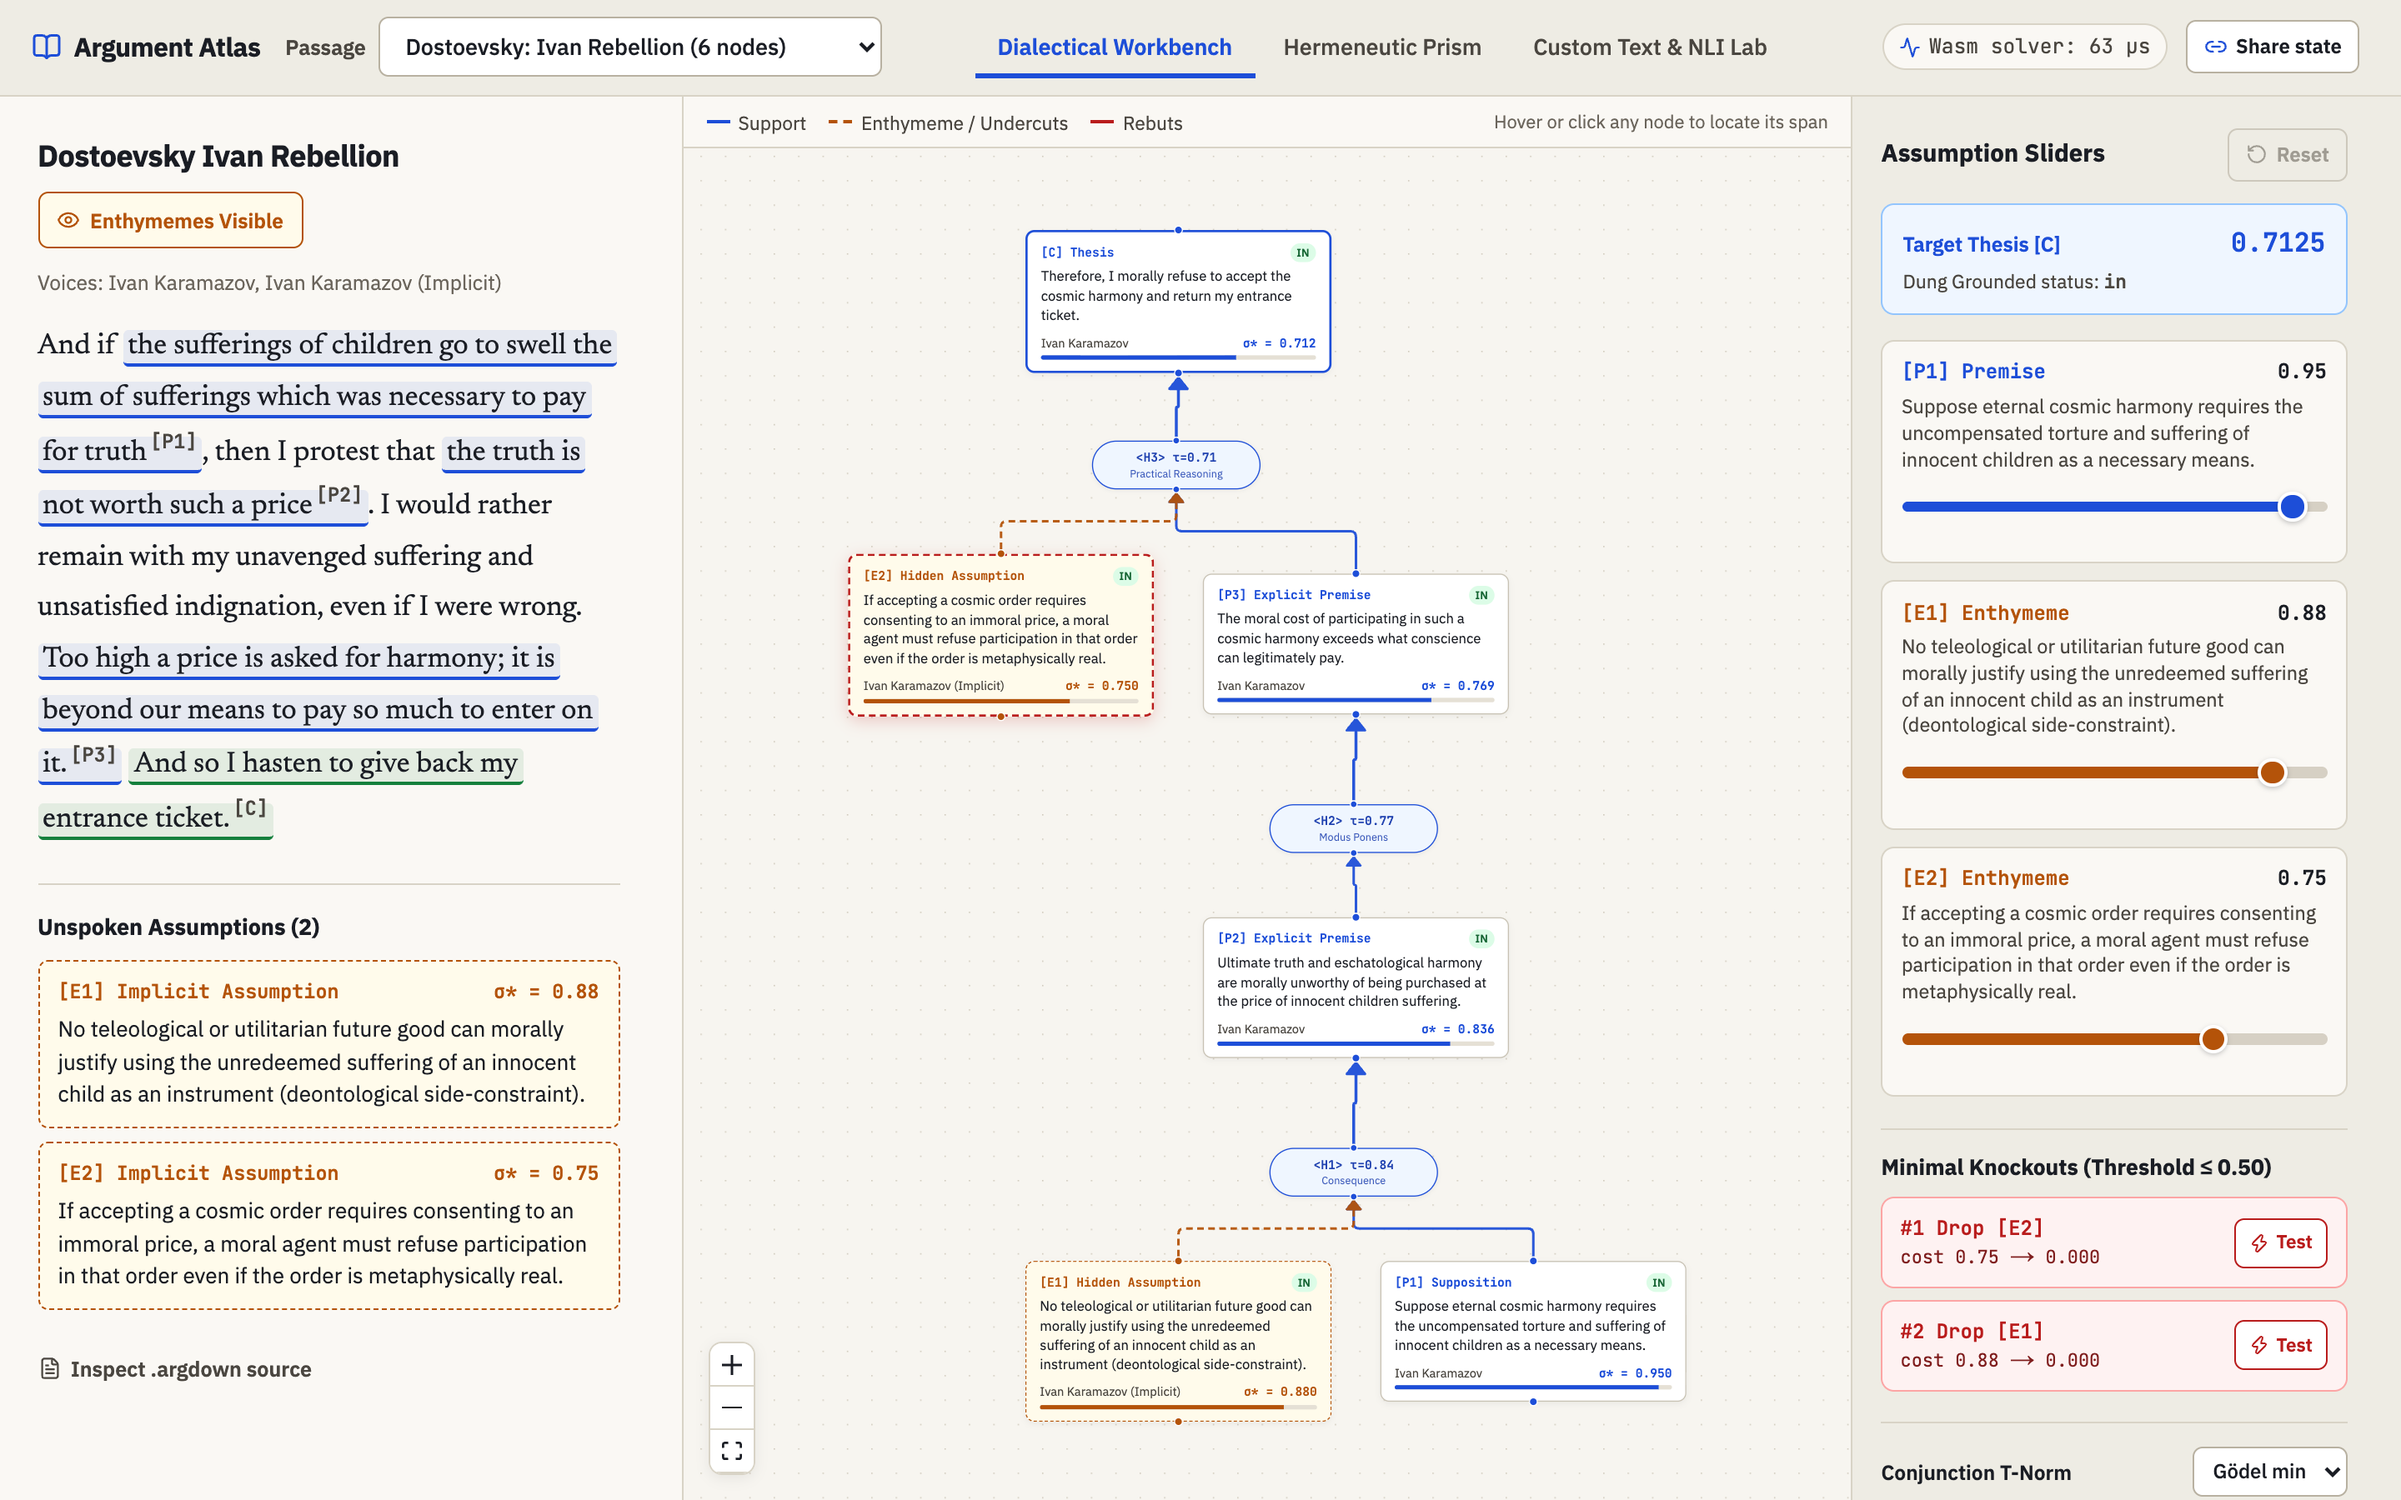
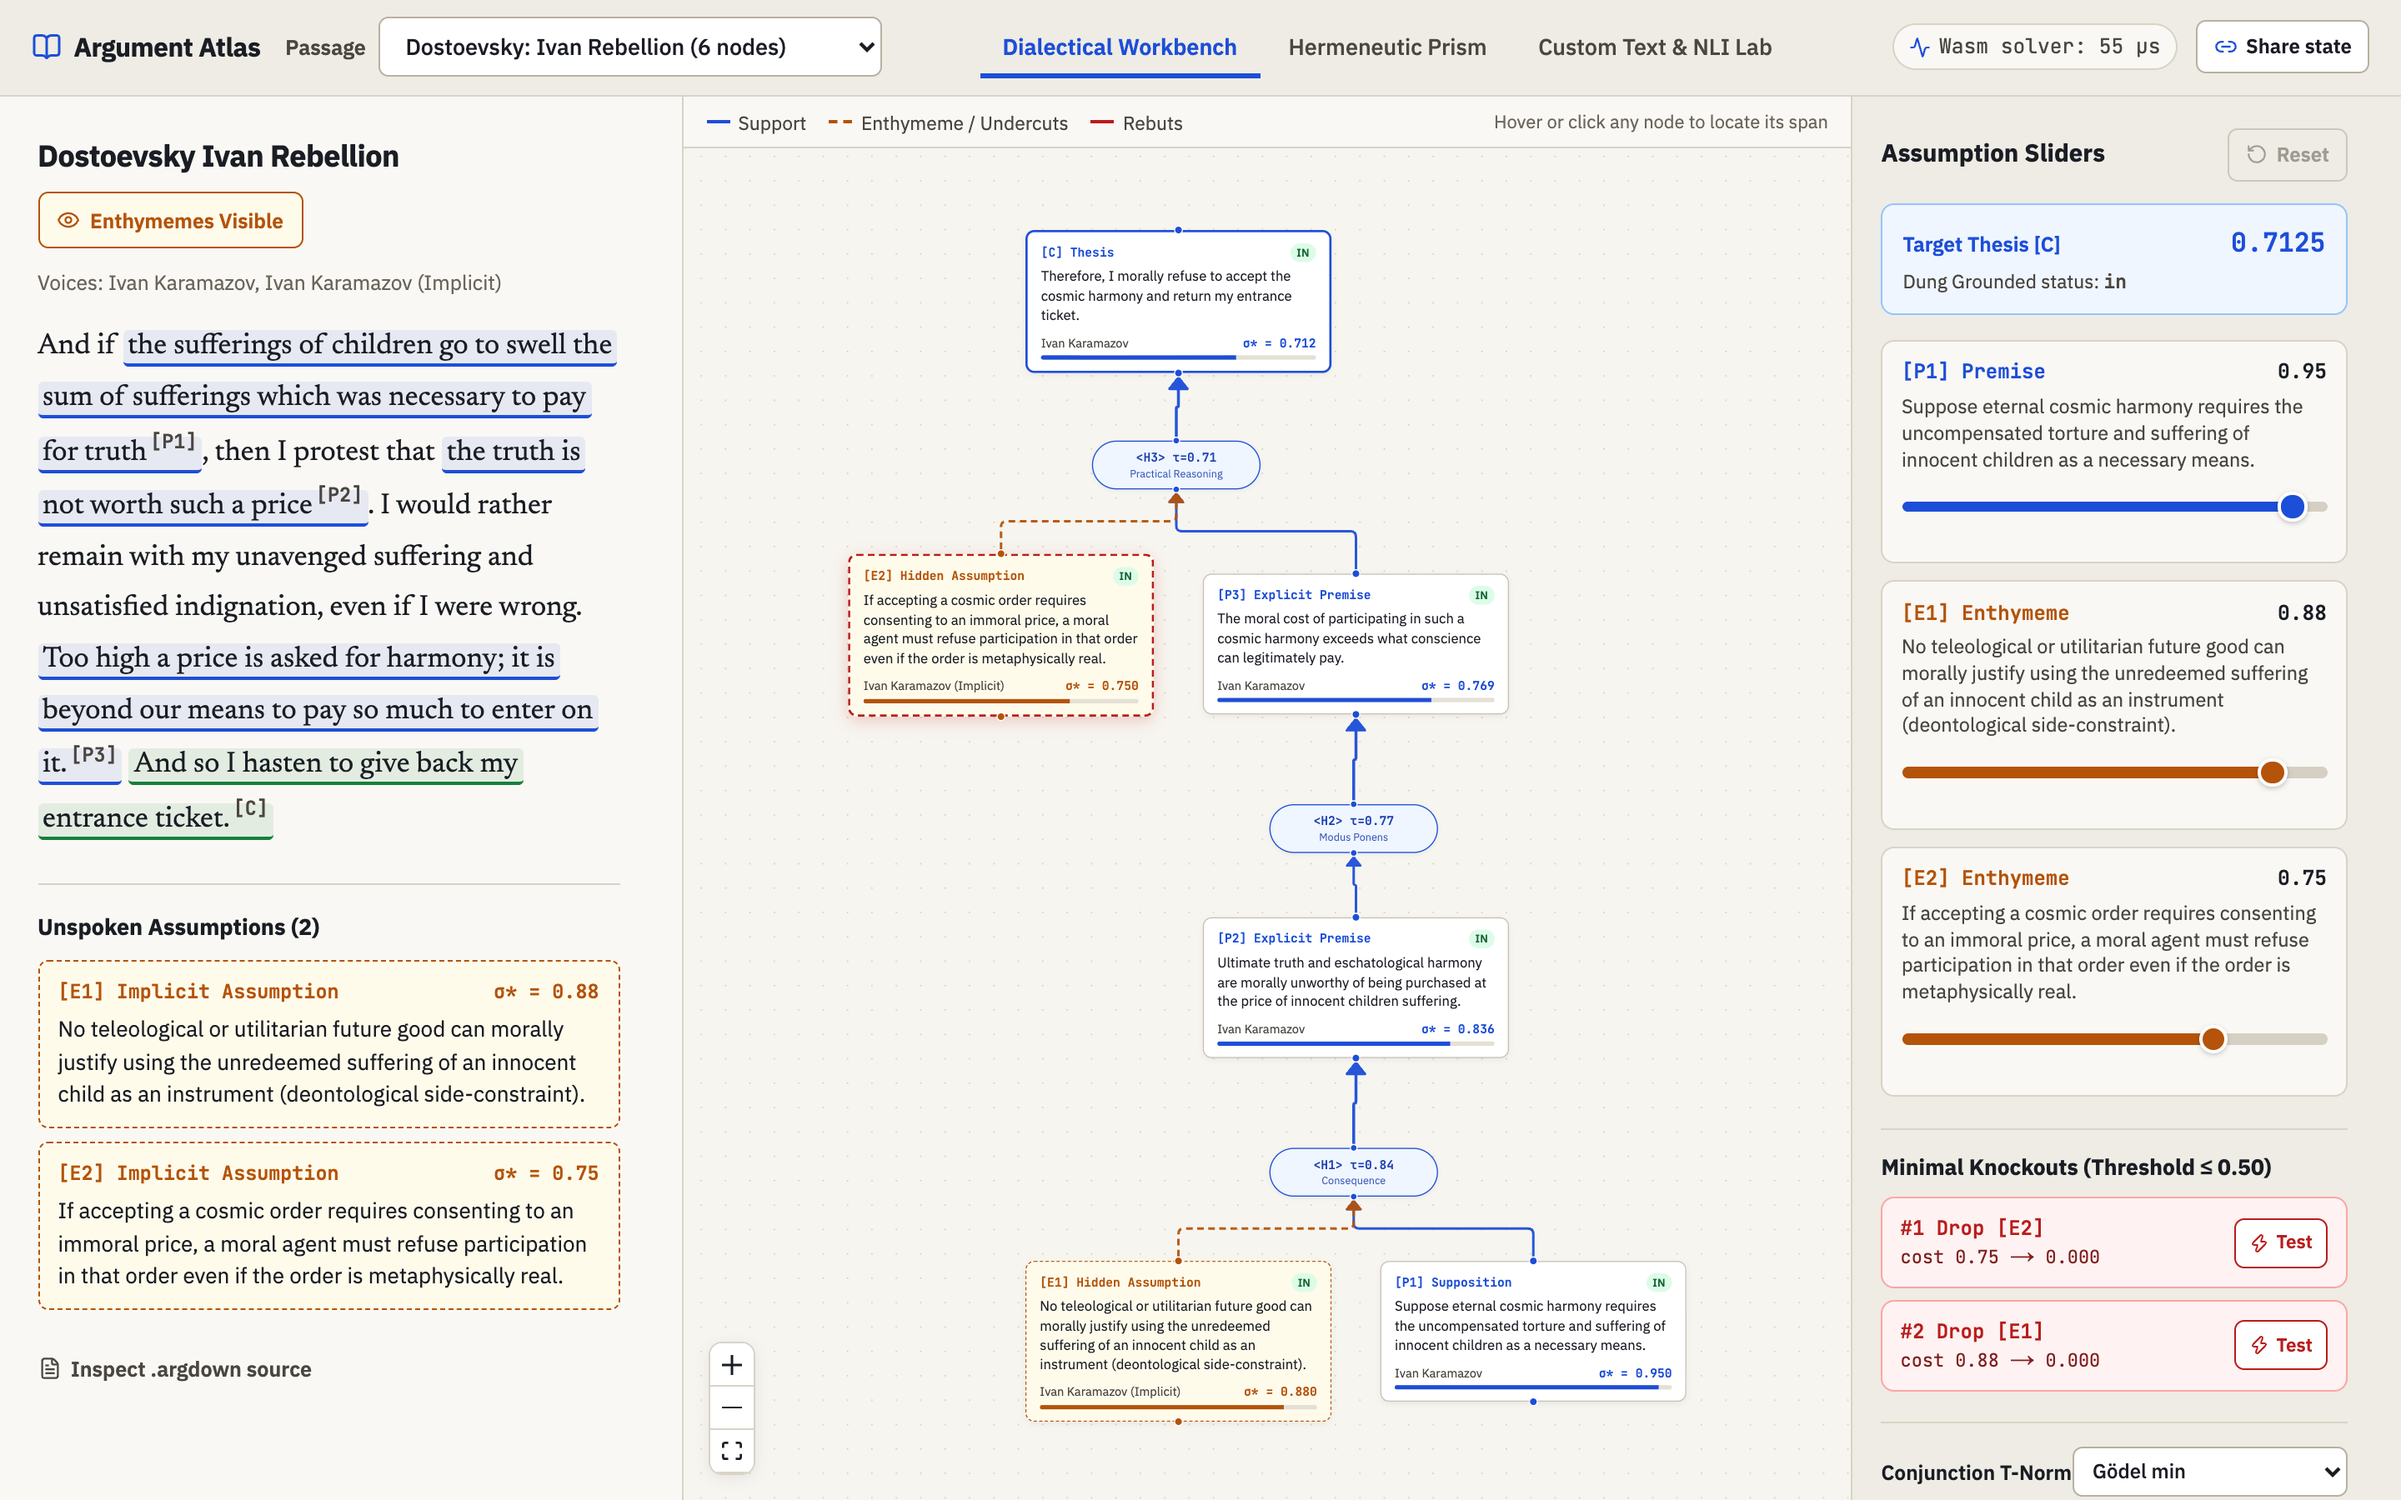
update asset images and fix workbench grid layout overflow

diff --git a/web/src/app/globals.css b/web/src/app/globals.css
@@ -82,10 +82,16 @@ button {
 /* Top-level Workbench Grid Layout */
 .atlas-shell {
   display: grid;
+  grid-template-columns: minmax(0, 1fr);
   grid-template-rows: auto 1fr;
+  inline-size: 100%;
   min-block-size: 100dvh;
   block-size: 100dvh;
   overflow: hidden;
+}
+
+.atlas-shell > main {
+  min-inline-size: 0;
 }
 
 .atlas-header {
@@ -95,6 +101,7 @@ button {
   justify-content: space-between;
   gap: 0.75rem 1.25rem;
   padding: 0.625rem 1.25rem;
+  min-inline-size: 0;
   background: var(--paper-rail);
   border-block-end: 1px solid var(--rule-hairline);
 }
